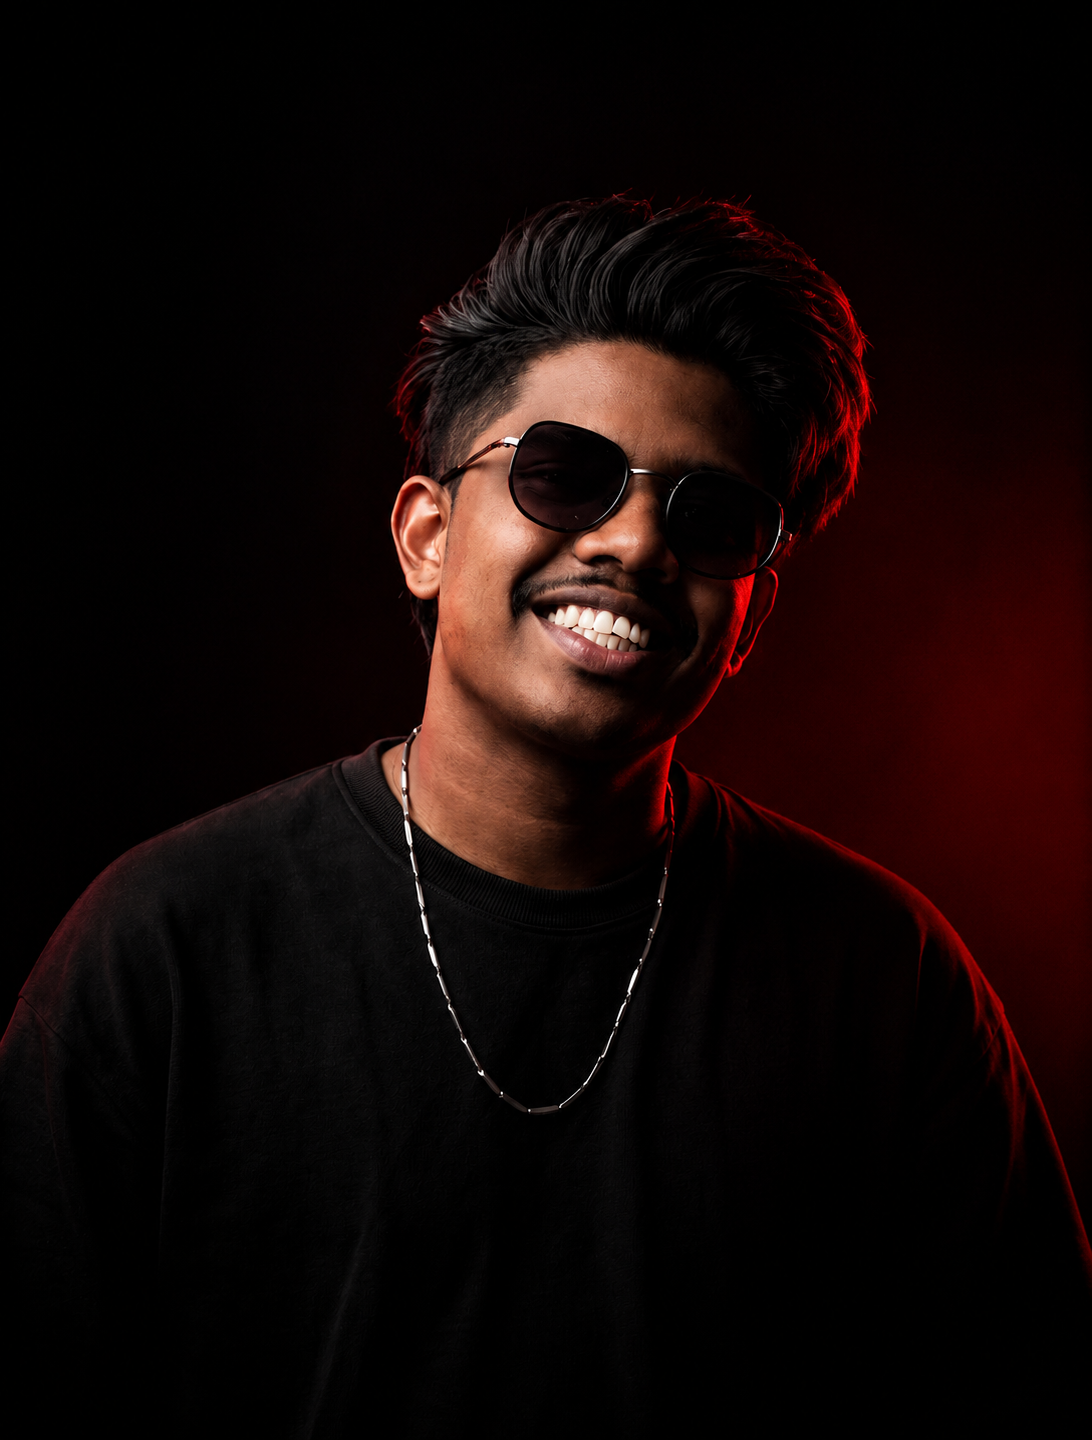
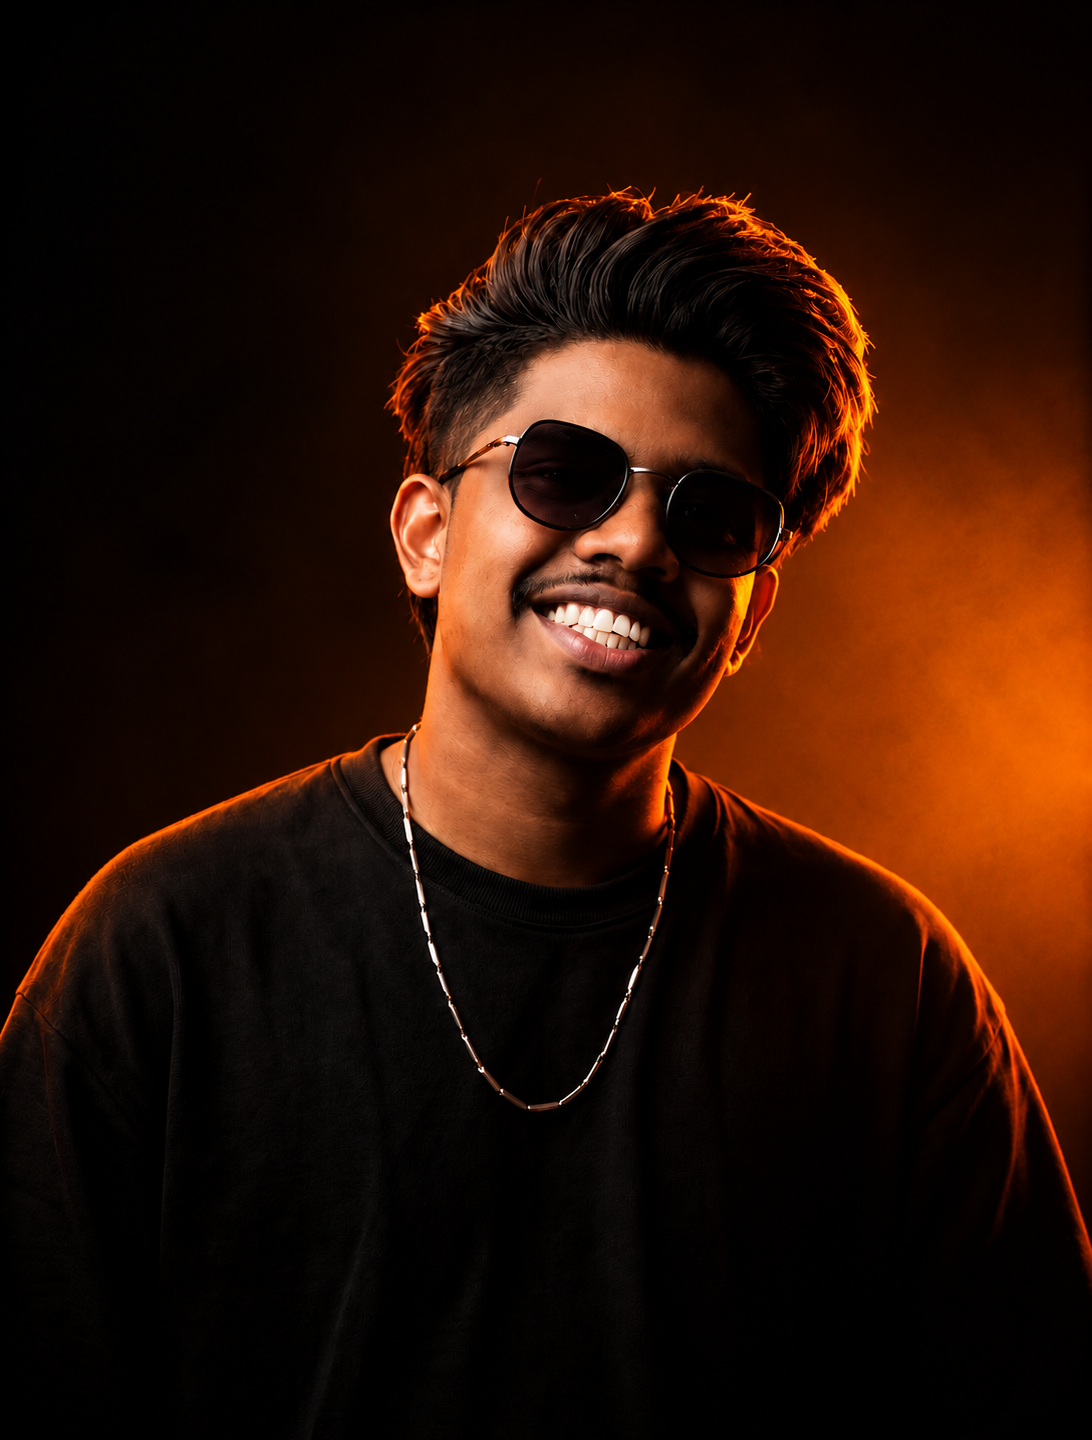
image changed

diff --git a/src/components/Contact.jsx b/src/components/Contact.jsx
@@ -30,36 +30,54 @@ const Contact = () => {
     setFormData({ ...formData, [e.target.name]: e.target.value });
   };
 
-  const RECIPIENT = atob('YXJhdmluZG1yMTM0N0BnbWFpbC5jb20='); // base64 of aravindmr1347@gmail.com
+ // base64 of aravindmr1347@gmail.com
 
-  const handleSubmit = (e) => {
-    e.preventDefault();
-    setIsSubmitting(true);
+ const handleSubmit = async (e) => {
+  e.preventDefault();
+  setIsSubmitting(true);
 
-    // Build mailto URI with form data
-    const subject = encodeURIComponent(`[Portfolio Inquiry] ${formData.subject}`);
-    const body = encodeURIComponent(
-      `Hi Aravind,\n\nName: ${formData.name}\nEmail: ${formData.email}\n\nMessage:\n${formData.message}`
-    );
-    const mailtoLink = `mailto:${RECIPIENT}?subject=${subject}&body=${body}`;
+  try {
+    const response = await fetch('https://api.web3forms.com/submit', {
+      method: 'POST',
+      headers: {
+        'Content-Type': 'application/json',
+        Accept: 'application/json',
+      },
+      body: JSON.stringify({
+        access_key: '147dfa8e-6c13-4f30-8c01-35d37b3f0410',
 
-    // Open user's default mail client
-    window.location.href = mailtoLink;
+        name: formData.name,
+        email: formData.email,
+        subject: `[Portfolio Inquiry] ${formData.subject}`,
+        message: formData.message,
 
-    // Show success state and confetti after triggering
-    setTimeout(() => {
-      setIsSubmitting(false);
+        from_name: 'Aravind Ramesh Portfolio',
+      }),
+    });
+
+    const result = await response.json();
+
+    if (result.success) {
       setSubmitted(true);
+
       try {
         confetti({
           particleCount: 80,
           spread: 70,
           origin: { y: 0.6 },
-          colors: ['#FF7A00', '#FFFFFF', '#FF8A1F']
+          colors: ['#FF7A00', '#FFFFFF', '#FF8A1F'],
         });
       } catch (_) {}
-    }, 500);
-  };
+    } else {
+      alert('Something went wrong. Please try again.');
+    }
+  } catch (error) {
+    console.error('Form submission error:', error);
+    alert('Unable to send the message. Please try again.');
+  } finally {
+    setIsSubmitting(false);
+  }
+};
 
   return (
     <section id="contact" className="relative py-28 bg-[#0B0B0B] overflow-hidden">

diff --git a/src/components/About.jsx b/src/components/About.jsx
@@ -53,7 +53,7 @@ const About = () => {
             <div className="relative mx-auto max-w-sm lg:max-w-none rounded-3xl overflow-hidden glass-panel p-3 border border-white/10 shadow-glass group">
               <div className="relative aspect-[4/5] rounded-2xl overflow-hidden">
                 <img
-                  src="/assets/aravind.png"
+                  src="/assets/aravind2.png"
                   alt="Aravind Ramesh"
                   className="w-full h-full object-cover filter brightness-90 group-hover:scale-105 transition-transform duration-500"
                   loading="lazy"

diff --git a/index.html b/index.html
@@ -5,6 +5,7 @@
     <meta name="viewport" content="width=device-width, initial-scale=1.0">
     <meta name="description" content="Aravind Ramesh — UI/UX Designer & Graphic Designer. Creative portfolio showcasing UI/UX, 3D Design, Animation, Branding & Posters.">
     <title>ARAVIND RAMESH — UI/UX & Graphic Designer</title>
+    <link rel="icon" type="image/png" href="/assets/AR_logo_no_shadow.png">
     <!-- Google Fonts -->
     <link rel="preconnect" href="https://fonts.googleapis.com">
     <link rel="preconnect" href="https://fonts.gstatic.com" crossorigin>

diff --git a/src/data/portfolioData.js b/src/data/portfolioData.js
@@ -31,6 +31,14 @@ export const portfolioData = {
     ]
   },
   skills: [
+     {
+      category: "Ai",
+      items: [
+        { name: "Chat GPT", percentage: 96, icon: "Layout" },
+        { name: "Gemini", percentage: 92, icon: "Palette" }
+      
+      ]
+    },
     {
       category: "Design",
       items: [
@@ -38,6 +46,7 @@ export const portfolioData = {
         { name: "Artist", percentage: 92, icon: "Palette" }
       ]
     },
+  
     {
       category: "Adobe Creative Cloud",
       items: [

diff --git a/src/components/Hero.jsx b/src/components/Hero.jsx
@@ -150,7 +150,7 @@ const Hero = () => {
 
             {/* Portrait Image (Overlaps PORTFOLIO background text) */}
             <img
-              src="/assets/aravind2.png"
+              src="/assets/img01.png"
               alt="Aravind Ramesh"
               className="w-full  h-full p-8 object-cover filter brightness-[0.9] contrast-[1.05] transition-transform duration-500 group-hover:scale-105"
               loading="eager"

diff --git a/src/components/Projects.jsx b/src/components/Projects.jsx
@@ -9,7 +9,17 @@ const Projects = () => {
   const navigate=useNavigate()
 
   // Categories
-  const filterCategories = ['All', 'Graphic Design', 'UI/UX', '2D', '3D', 'Animation', 'Videos'];
+  const filterCategories = [
+  'All',
+  'Ai',
+  'Graphic Design',
+  'UI/UX',
+  '2D',
+  '3D',
+  'Animation',
+  'Videos',
+  'Branding'
+];
 
   const filteredProjects = selectedFilter === 'All'
     ? portfolioData.projects
